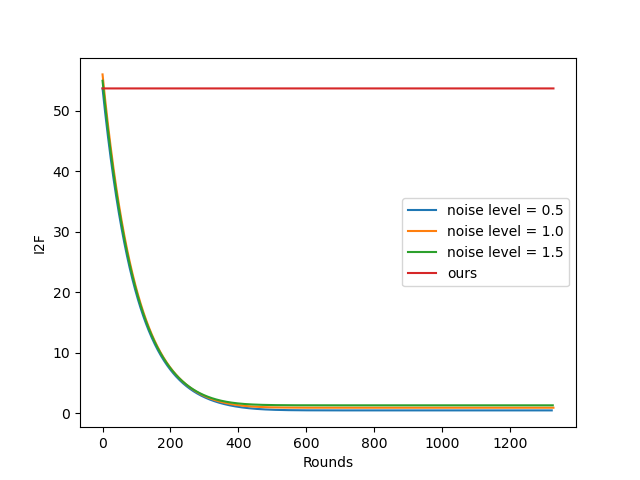
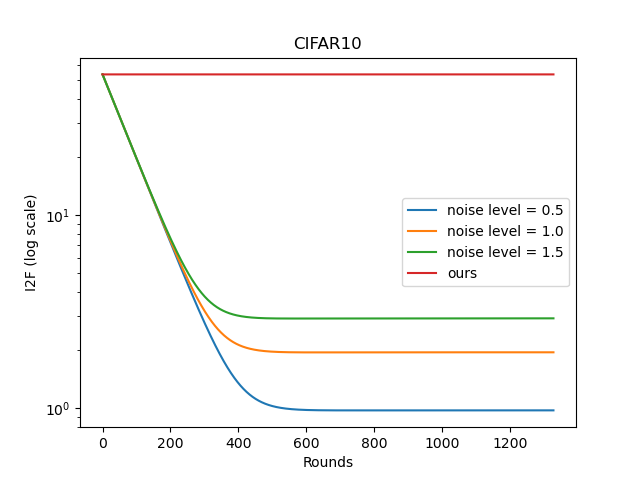
mac

diff --git a/plot.py b/plot.py
@@ -2,37 +2,39 @@ import matplotlib.pyplot as plt
 import numpy as np
 
 # Data for plotting
-ours = np.loadtxt("log/fl_200.txt")
-fl_noise_1 = np.loadtxt("log/noise05.txt")
-fl_noise_2 = np.loadtxt("log/noise1.txt")
-fl_noise_3 = np.loadtxt("log/noise_15.txt")
-# cl = np.loadtxt("cl_200.txt")
+# ours = np.loadtxt("log/fl_200.txt")
+# fl_noise_1 = np.loadtxt("log/noise05.txt")
+# fl_noise_2 = np.loadtxt("log/noise1.txt")
+# fl_noise_3 = np.loadtxt("log/noise_15.txt")
+# # cl = np.loadtxt("cl_200.txt")
+# # plot these accuracy in the same plot
+# fig, ax = plt.subplots()
+# ax.plot(ours, label="Ours")
+# ax.plot(fl_noise_1, label="noise level = 0.5")
+# ax.plot(fl_noise_2, label="noise level = 1")
+# ax.plot(fl_noise_3, label="noise level = 1.5")
+# # ax.plot(cl, label="CL")
+# ax.set(xlabel='Round', ylabel='Accuracy',
+#        )
+# plt.title("CIFAR10")
+# # ax.grid(True)
+# plt.legend()
+# plt.show()
+# fig.savefig("noise.png")
+
+byzantine = np.loadtxt("log/fl_200.txt")
+no_byzantine = np.loadtxt('log/vanilla_acc_200.txt')
 # plot these accuracy in the same plot
 fig, ax = plt.subplots()
-ax.plot(ours, label="Ours")
-ax.plot(fl_noise_1, label="noise level = 0.5")
-ax.plot(fl_noise_2, label="noise level = 1")
-ax.plot(fl_noise_3, label="noise level = 1.5")
-# ax.plot(cl, label="CL")
+ax.plot(no_byzantine, label="No Byzantine")
+ax.plot(byzantine, label="Byzantine")
 ax.set(xlabel='Round', ylabel='Accuracy',
        )
 # ax.grid(True)
 plt.legend()
-plt.show()
-fig.savefig("noise.png")
-
-# byzantine = np.loadtxt("log/fl_200.txt")
-# no_byzantine = np.loadtxt('log/vanilla_acc_200.txt')
-# # plot these accuracy in the same plot
-# fig, ax = plt.subplots()
-# ax.plot(no_byzantine, label="No Byzantine")
-# ax.plot(byzantine, label="Byzantine")
-# ax.set(xlabel='Round', ylabel='Accuracy',
-#        )
-# # ax.grid(True)
-# plt.legend()
-# # plt.show()
-# fig.savefig("byzantine3.png")
+plt.title("CIFAR10")
+# plt.show()
+fig.savefig("byzantine3.png")
 
 
 # save the plot
